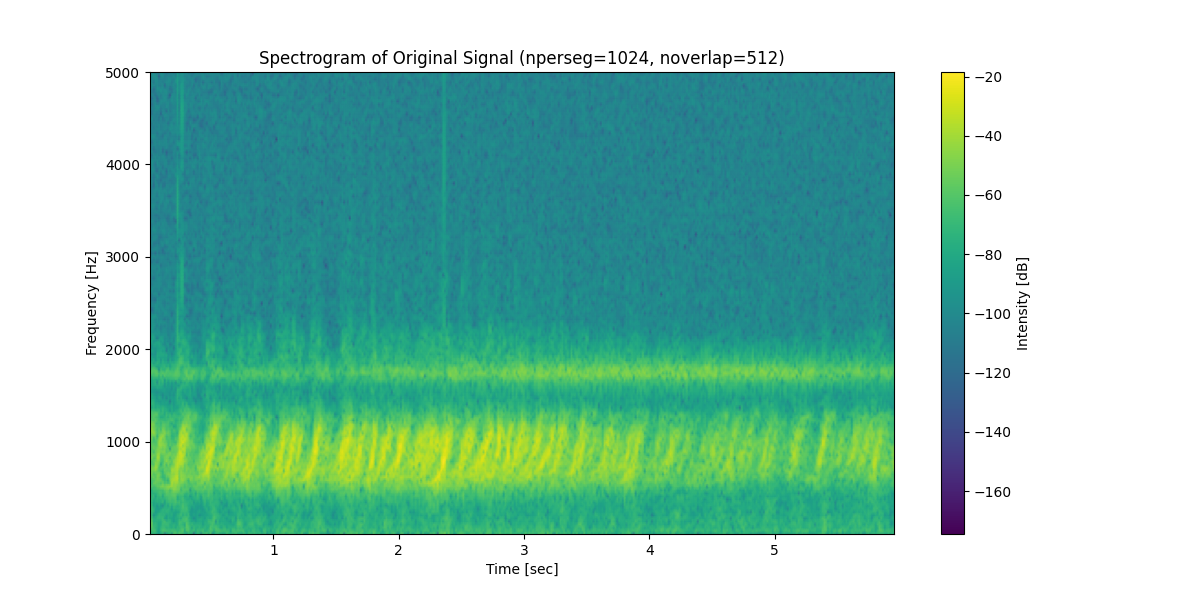
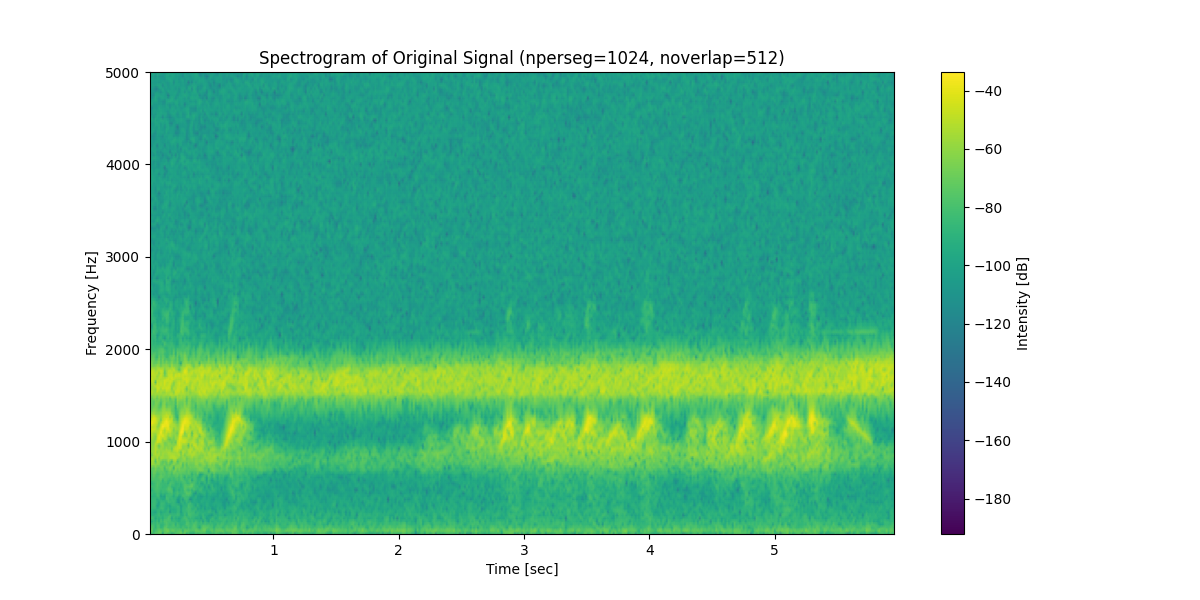
Added download spectrogram feature

diff --git a/Python/src/templates/form.html b/Python/src/templates/form.html
@@ -46,24 +46,25 @@
                     </div>
                 </div>
 
-                <div class="spectrogram">
-                    <!-- Radio buttons-->
-                    <input type="radio" name="selection" id="dot-1">
-                    <input type="radio" name="selection" id="dot-2">
-                    <span class="gender-title">Generate spectrogram</span>
+                <div class="domain-selection">
+                    <span class="gender-title">Analysis Domain</span>
+
+                    <input type="radio" name="domain" id="time-domain" value="time" checked>
+                    <input type="radio" name="domain" id="freq-domain" value="frequency">
+
                     <div class="category">
-                        <!-- Label for "Yes" -->
-                        <label for="dot-1">
+                        <label for="time-domain">
                             <span class="dot one"></span>
-                            <span class="selection">Yes</span>
+                            <span class="selection">Time Domain</span>
                         </label>
-                        <!-- Label for "No" -->
-                        <label for="dot-2">
+
+                        <label for="freq-domain">
                             <span class="dot two"></span>
-                            <span class="selection">No</span>
+                            <span class="selection">Frequency Domain</span>
                         </label>
                     </div>
                 </div>
+
 
                 <!-- Submit button -->
                 <div class="button">

diff --git a/Python/src/templates/display.html b/Python/src/templates/display.html
@@ -72,6 +72,9 @@
                 <div>
                     <button id="btnStop">Stop Sonification</button>
                 </div>
+                <div>
+                    <button id="btnSpectrogram">Download Spectrogram</button>
+                </div>
             </div>
             <canvas id="kurtChart"></canvas>
             
@@ -161,6 +164,11 @@
         const btnStop = document.getElementById("btnStop");
         btnStop.addEventListener("click", function() {
             socket.emit("stop_sonification");
+        });
+
+        const btnSpectrogram = document.getElementById("btnSpectrogram");
+        document.getElementById("btnSpectrogram").addEventListener("click", function () {
+            window.location.href = "/download_spectrogram";
         });
     </script>
 </body>

diff --git a/Python/src/static/style.css b/Python/src/static/style.css
@@ -143,16 +143,11 @@ form .category label .dot {
     transition: all 0.3s ease;
 }
 
-#dot-1:checked~.category label .one,
-#dot-2:checked~.category label .two,
-#dot-3:checked~.category label .three {
+input[type="radio"]:checked + label .dot {
     background: #9b59b6;
     border-color: #d9d9d9;
 }
 
-form input[type="radio"] {
-    display: none;
-}
 
 form .button {
     height: 45px;

diff --git a/Python/src/flask_app.py b/Python/src/flask_app.py
@@ -1,14 +1,26 @@
-from flask import Flask, request, render_template
+from flask import Flask, request, render_template, send_file
 import data_handler
 import threading
 from flask_socketio import SocketIO
+import os
+import matplotlib
+matplotlib.use("Agg")
+import matplotlib.pyplot as plt
+import pandas as pd
 
 
 app = Flask(__name__)
 socketio = SocketIO(app, cors_allowed_origins="*", async_mode="threading")
 current_delay = 0.99
 stop_event = threading.Event()
+b_wave = pd.Series()
+sampling_freq = 35000
+base_name = ''
 
+@app.route("/download_spectrogram")
+def download():
+    return send_file("Spectrogram.png", as_attachment=True)
+    
 @socketio.on("update_delay")
 def update_delay(data):
     global current_delay
@@ -33,21 +45,25 @@ def display():
     file = request.files["dataset"]
     window_size = int(request.form["window_size"])
     port = int(request.form["port"])
+    domain = request.form["domain"]
 
-    global current_delay
+    global current_delay, b_wave, sampling_freq, base_name
     current_delay = float(request.form["delay"])
 
     stop_event.clear()
 
     dataset = data_handler.file_loader(file)
+    base_name = os.path.splitext(file.filename)[0]
 
-    df = data_handler.retr_b_wave(dataset)
-    dff =data_handler.compute_stfft(df, 1024, 512, 35000)
+    b_wave = data_handler.retr_b_wave(dataset)
 
-    #stats = data_handler.map_all_stats_tdom(data_handler.retr_b_wave(dataset), 
-     #                                  window_size, magnitude=data_handler.get_mag(dataset))
-    stats = data_handler.map_all_stats_fdom(dff)
-
+    if domain == "frequency":
+        dff = data_handler.compute_stfft(b_wave, 1024, 512, 35000)
+        stats = data_handler.map_all_stats_fdom(dff)
+    else:
+        stats = data_handler.map_all_stats_tdom(data_handler.retr_b_wave(dataset), 
+                                    window_size, magnitude=data_handler.get_mag(dataset))
+    
 
     socketio.start_background_task(
         data_handler.send_over_UDP, stats, "127.0.0.1", port, get_current_delay, socketio, stop_event

diff --git a/Python/src/data_handler.py b/Python/src/data_handler.py
@@ -5,6 +5,7 @@ import socket
 import time
 from scipy.signal import spectrogram
 from scipy.stats import skew, kurtosis
+import matplotlib.pyplot as plt
 
 # Code formatting rules:
 # All data structures containing the statistical momements should be written in the same order everytime.
@@ -116,7 +117,7 @@ def map_all_stats_fdom(data_frame):
         "mean": normalise_data(data_frame["mean"], range_min=50, range_max=105),
         "skew": normalise_data(data_frame["skew"], range_min=-1, range_max=1),
         "std": normalise_data(data_frame["std"], range_min=50, range_max=127),
-        "kurtosis": normalise_and_invert(data_frame["kurtosis"], range_min=50, range_max=127),
+        "kurtosis": normalise_data(data_frame["kurtosis"], range_min=50, range_max=127),
         "magnitude": magnitude,
     })
 
@@ -148,6 +149,22 @@ def compute_stfft(dataseries, nperseg_val, noverlap_val, sampling_freq):
             "kurtosis": kurt_vals,
         }
     )
+
+    # Plot the spectrogram
+    plt.figure(figsize=(12, 6))
+    plt.pcolormesh(
+        t_spec_original, f_spec_original, 10 * np.log10(Sxx_original), shading="gouraud"
+    )
+    plt.ylabel("Frequency [Hz]")
+    plt.xlabel("Time [sec]")
+    plt.title(
+        f"Spectrogram of Original Signal (nperseg={nperseg_val}, noverlap={noverlap_val})"
+    )
+    plt.ylim(
+        0, 5000
+    )  # Adjust y-axis limit based on expected frequency range of the signal
+    plt.colorbar(label="Intensity [dB]")
+    plt.savefig(r"Python\src\Spectrogram.png")
 
     return Sxx_stats
 
